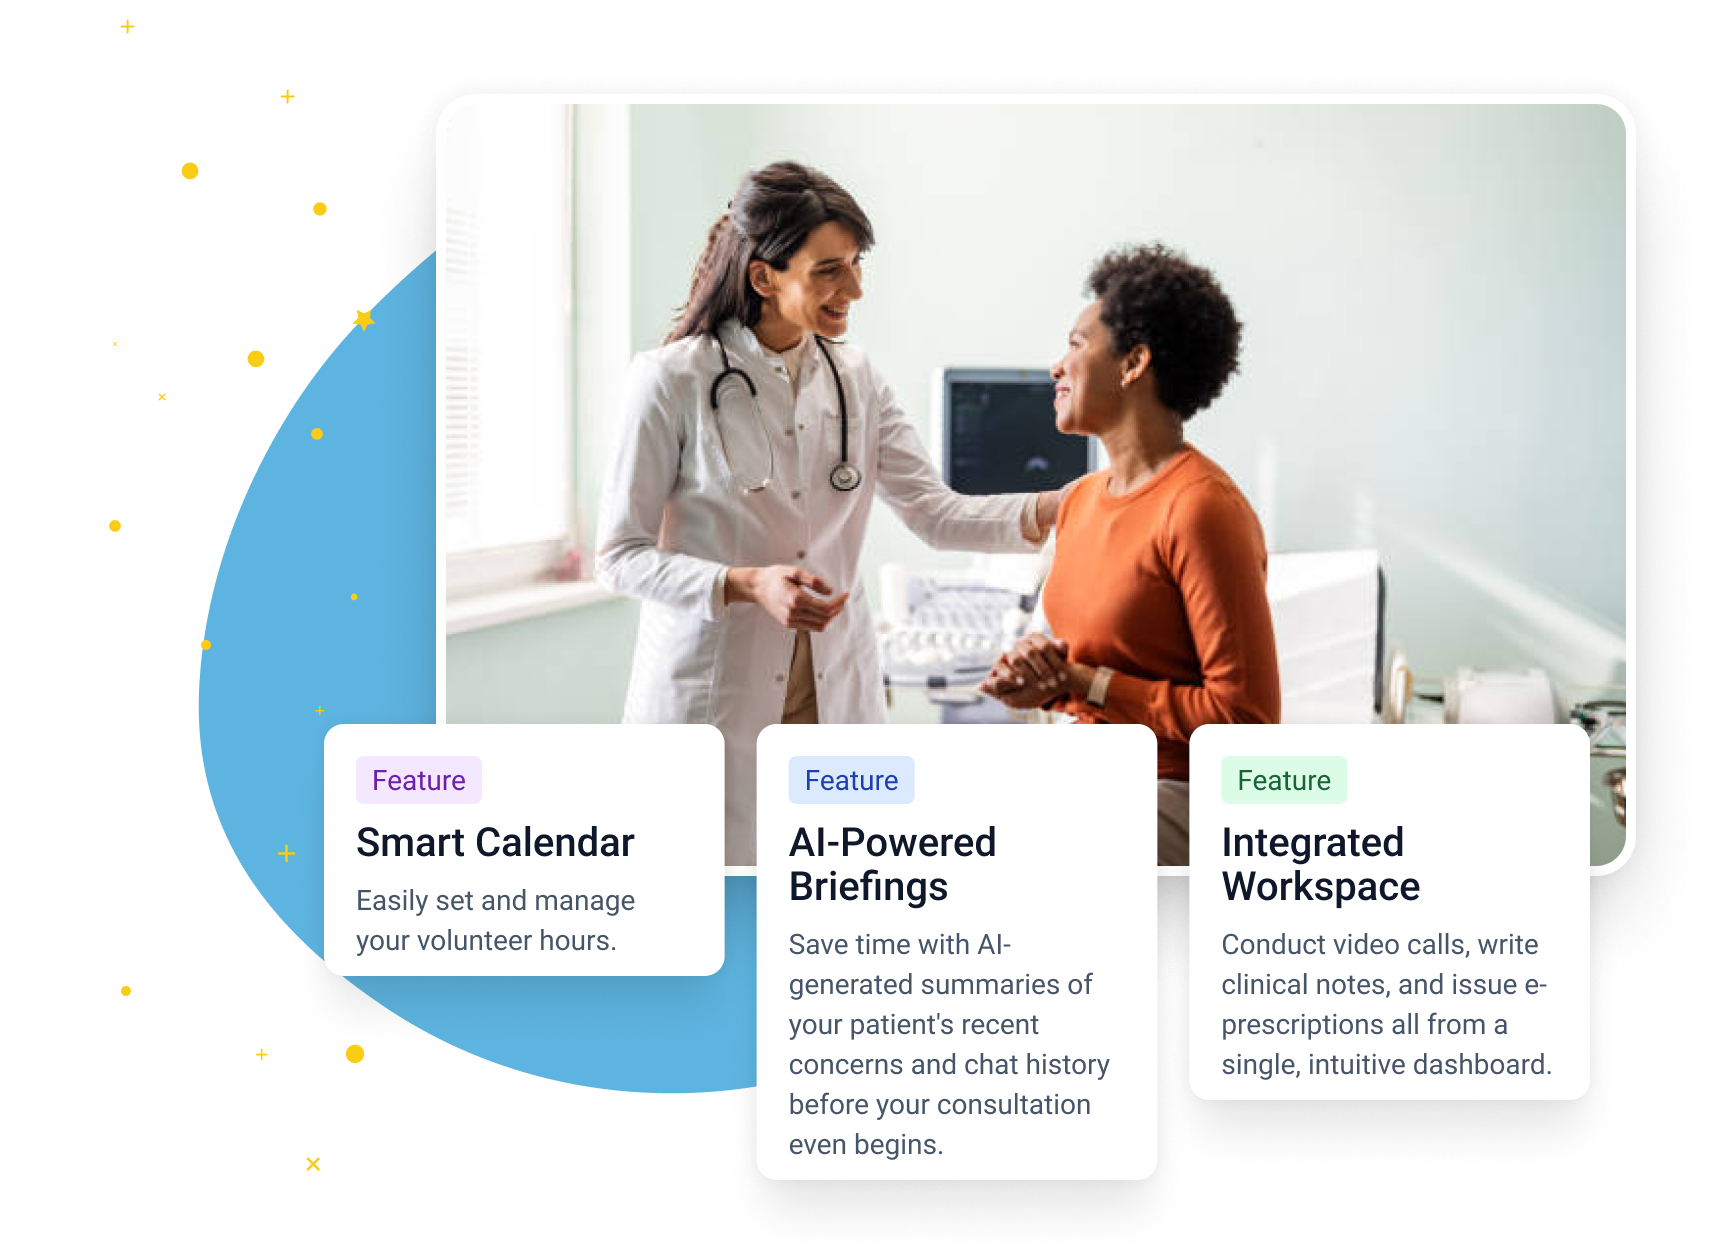
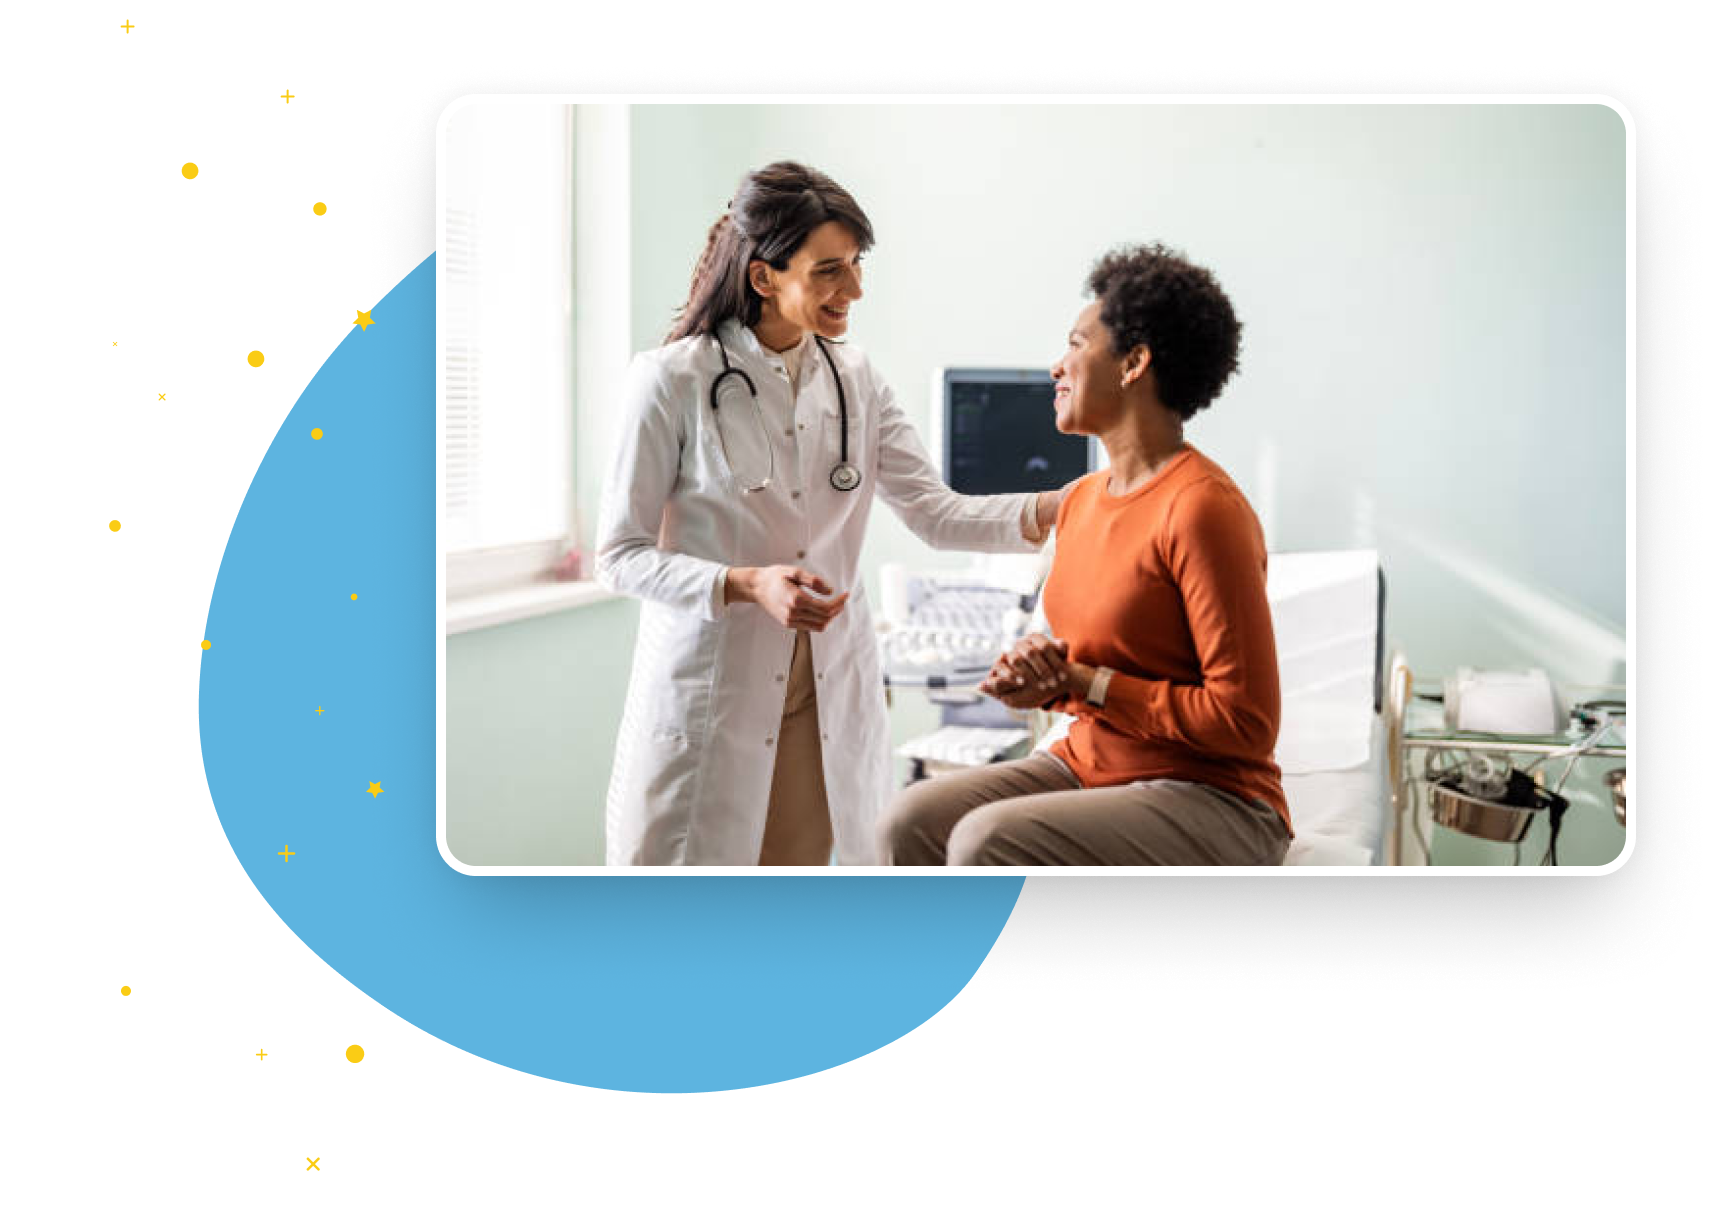
Add shimmer animation to professional section title

diff --git a/src/components/landing/LandingPage.css b/src/components/landing/LandingPage.css
@@ -187,7 +187,7 @@
 
 .chat-bubble.bubble-2 { /* Patient's bubble - White */
   top: 45%;
-  left: 55%; /* Positioned between mascot and patient - moved slightly to the right */
+  left: 48%; /* Positioned between mascot and patient - moved slightly to the right */
   background-color: #FFFFFF; /* White Background */
   color: #00224A; /* Navy Text */
   border-radius: 16px 0 16px; /* Patient's bubble */
@@ -196,7 +196,7 @@
 
 .chat-bubble.bubble-3 { /* Third bubble - Robot's bubble */
   top: 60%;
-  left: 45%; /* Positioned between mascot and patient */
+  left: 38%; /* Positioned between mascot and patient */
   background-color: #00224A; /* Navy Blue */
   color: #FFFFFF; /* White Text */
   border-radius: 16px 0 16px; /* Robot's bubble */
@@ -224,6 +224,232 @@
     opacity: 0;
     transform: scale(0.8);
   }
+}
+
+/* For Professionals Section */
+#professional-section {
+  display: flex;
+  padding: 80px;
+  align-items: center;
+  gap: 80px;
+  align-self: stretch;
+  background-color: #EBF1FA; /* bg1 (Continues from Hero section) */
+}
+
+.prof-content {
+  display: flex;
+  align-items: center;
+  width: 100%;
+}
+
+.prof-text {
+  display: flex;
+  flex-direction: column;
+  align-items: flex-start;
+  gap: 32px;
+  align-self: stretch;
+  width: 45%;
+  max-width: 50%;
+}
+
+/* 1. Define the Animation Keyframes */
+@keyframes shimmer {
+  0% {
+    background-position: -200% center;
+  }
+  100% {
+    background-position: 200% center;
+  }
+}
+
+/* 2. Apply styles to the Professional Section Title */
+.prof-headline {
+  font-size: 2.5rem; /* H2 size */
+  font-weight: 800;
+  line-height: 1.2;
+  margin: 0;
+  position: relative;
+  
+  /* --- THE ANIMATION MAGIC --- */
+  
+  /* Create the gradient: Navy -> Light Blue -> Navy */
+  background: linear-gradient(
+    110deg,
+    #00224A 40%,   /* Main Text Color (b5) */
+    #5DB4E0 50%,   /* Shine Color (b2) */
+    #00224A 60%    /* Main Text Color (b5) */
+  );
+  
+  /* Size the background larger than the text so we can move it */
+  background-size: 200% auto;
+  
+  /* Clip the background to the text shape */
+  -webkit-background-clip: text;
+  background-clip: text;
+  
+  /* Make the text fill transparent so background shows */
+  -webkit-text-fill-color: transparent;
+  color: transparent;
+  
+  /* Run the animation */
+  animation: shimmer 5s linear infinite;
+  
+  white-space: pre-line; /* Allows text to wrap to new lines */
+}
+
+/* Optional: Ensure the highlight span maintains its green underline */
+.prof-headline .highlight {
+  position: relative;
+  display: inline-block;
+  color: #00224A; /* b5 - This will be overridden by the animation */
+  -webkit-text-fill-color: #00224A; /* Override transparency for the "Quality" word if desired, OR let it shimmer too */
+}
+
+.benefit-list {
+  list-style: none;
+  padding: 0;
+  margin: 0;
+  display: flex;
+  flex-direction: column;
+  gap: 24px;
+}
+
+.benefit-item {
+  display: flex;
+  gap: 12px;
+  align-items: flex-start;
+}
+
+.check-icon {
+  color: #84B54C; /* g1 - Leaf Green */
+  font-weight: bold;
+  margin-top: 4px;
+}
+
+.benefit-item p {
+  margin: 0;
+  color: #00224A; /* b5 - Deep Navy Blue */
+  font-size: 1rem;
+  line-height: 1.5;
+}
+
+.cta-link {
+  display: inline-flex;
+  align-items: center;
+  gap: 8px;
+  color: #248BEB; /* b4 - Bright Blue */
+  text-decoration: none;
+  font-weight: 600;
+  font-size: 1.1rem;
+}
+
+.prof-visuals {
+  position: relative;
+  width: 55%;
+  height: 500px;
+  display: flex;
+  align-items: center;
+  justify-content: center;
+}
+
+.blob-bg {
+  position: absolute;
+  width: 100%;
+  height: 100%;
+  background-color: #5DB4E0; /* b2 - Sky Blue */
+  border-radius: 50% 30% 50% 30%;
+  z-index: 0;
+}
+
+/* Add decorative stars/crosses */
+.blob-bg::before {
+  content: "+";
+  position: absolute;
+  top: 20%;
+  left: 30%;
+  color: #84B54C; /* g1 - Leaf Green */
+  font-size: 24px;
+  z-index: 1;
+}
+
+.blob-bg::after {
+  content: "×";
+  position: absolute;
+  top: 60%;
+  left: 70%;
+  color: #84B54C; /* g1 - Leaf Green */
+  font-size: 24px;
+  z-index: 1;
+}
+
+.image-wrapper {
+  position: relative;
+  z-index: 2;
+  border: 8px solid white; /* Thick white border */
+  border-radius: 24px; /* Rounded corners */
+  box-shadow: 0 8px 24px rgba(0,0,0,0.1); /* Soft drop shadow */
+  overflow: hidden;
+}
+
+.image-wrapper img {
+  display: block;
+  max-width: 100%;
+  height: auto;
+}
+
+.feature-cards-row {
+  position: absolute;
+  bottom: 0;
+  left: 0;
+  width: 100%;
+  display: flex;
+  gap: 16px;
+  justify-content: center;
+  padding: 0 40px 40px;
+  z-index: 3;
+}
+
+.feature-card {
+  background: white;
+  border-radius: 12px;
+  padding: 16px;
+  width: 150px;
+  box-shadow: 0 4px 12px rgba(0,0,0,0.15); /* Strong drop shadow */
+}
+
+.badge {
+  display: inline-block;
+  padding: 4px 8px;
+  border-radius: 20px;
+  font-size: 0.75rem;
+  font-weight: bold;
+  margin-bottom: 8px;
+}
+
+.badge-purple {
+  background-color: #E0B0FF; /* Light Purple */
+}
+
+.badge-blue {
+  background-color: #ADD8E6; /* Light Blue */
+}
+
+.badge-green {
+  background-color: #90EE90; /* Light Green */
+}
+
+.feature-card h3 {
+  color: #00224A; /* b5 - Deep Navy Blue */
+  font-size: 1rem;
+  font-weight: 600;
+  margin: 0 0 8px 0;
+}
+
+.feature-card p {
+  color: #4A5568; /* Dark Grey */
+  font-size: 0.85rem;
+  line-height: 1.4;
+  margin: 0;
 }
 
 .main-content {

diff --git a/src/components/landing/LandingPage.tsx b/src/components/landing/LandingPage.tsx
@@ -71,6 +71,60 @@ const LandingPage: React.FC = () => {
        </div>
      </section>
      
+     {/* For Professionals Section */}
+     <section id="for-professionals" className="prof-section">
+       <div className="prof-content">
+         <div className="prof-text">
+           <h2 className="prof-headline">
+             Make a <span className="highlight">Difference</span>, On Your Schedule
+           </h2>
+           
+           <ul className="benefit-list">
+             <li className="benefit-item">
+               <span className="check-icon">✓</span>
+               <p><strong>Flexible Volunteering:</strong> Set your own availability and work at your convenience.</p>
+             </li>
+             <li className="benefit-item">
+               <span className="check-icon">✓</span>
+               <p><strong>Impactful Work:</strong> Provide essential healthcare support to underserved communities.</p>
+             </li>
+             <li className="benefit-item">
+               <span className="check-icon">✓</span>
+               <p><strong>Professional Growth:</strong> Expand your skills while making a meaningful difference.</p>
+             </li>
+           </ul>
+
+           <a href="/signup-professional" className="cta-link">
+             Join Our Volunteer Network →
+           </a>
+         </div>
+
+         <div className="prof-visuals">
+           <div className="blob-bg"></div>
+           <div className="image-wrapper">
+             <img src="/src/assets/doctor/features.png" alt="Doctor Consulting" />
+           </div>
+           <div className="feature-cards-row">
+             <div className="feature-card">
+               <span className="badge badge-purple">Feature</span>
+               <h3>Smart Calendar</h3>
+               <p>Easily set and manage your availability with our intelligent scheduling system.</p>
+             </div>
+             <div className="feature-card">
+               <span className="badge badge-blue">Feature</span>
+               <h3>AI Briefings</h3>
+               <p>Receive automated patient summaries and care recommendations powered by AI.</p>
+             </div>
+             <div className="feature-card">
+               <span className="badge badge-green">Feature</span>
+               <h3>Workspace</h3>
+               <p>Access a streamlined dashboard with all your patient interactions and records.</p>
+             </div>
+           </div>
+         </div>
+       </div>
+     </section>
+     
      {/* Main Content - Placeholder for now */}
      <main className="main-content">
        <h1>Welcome to Clinico</h1>
